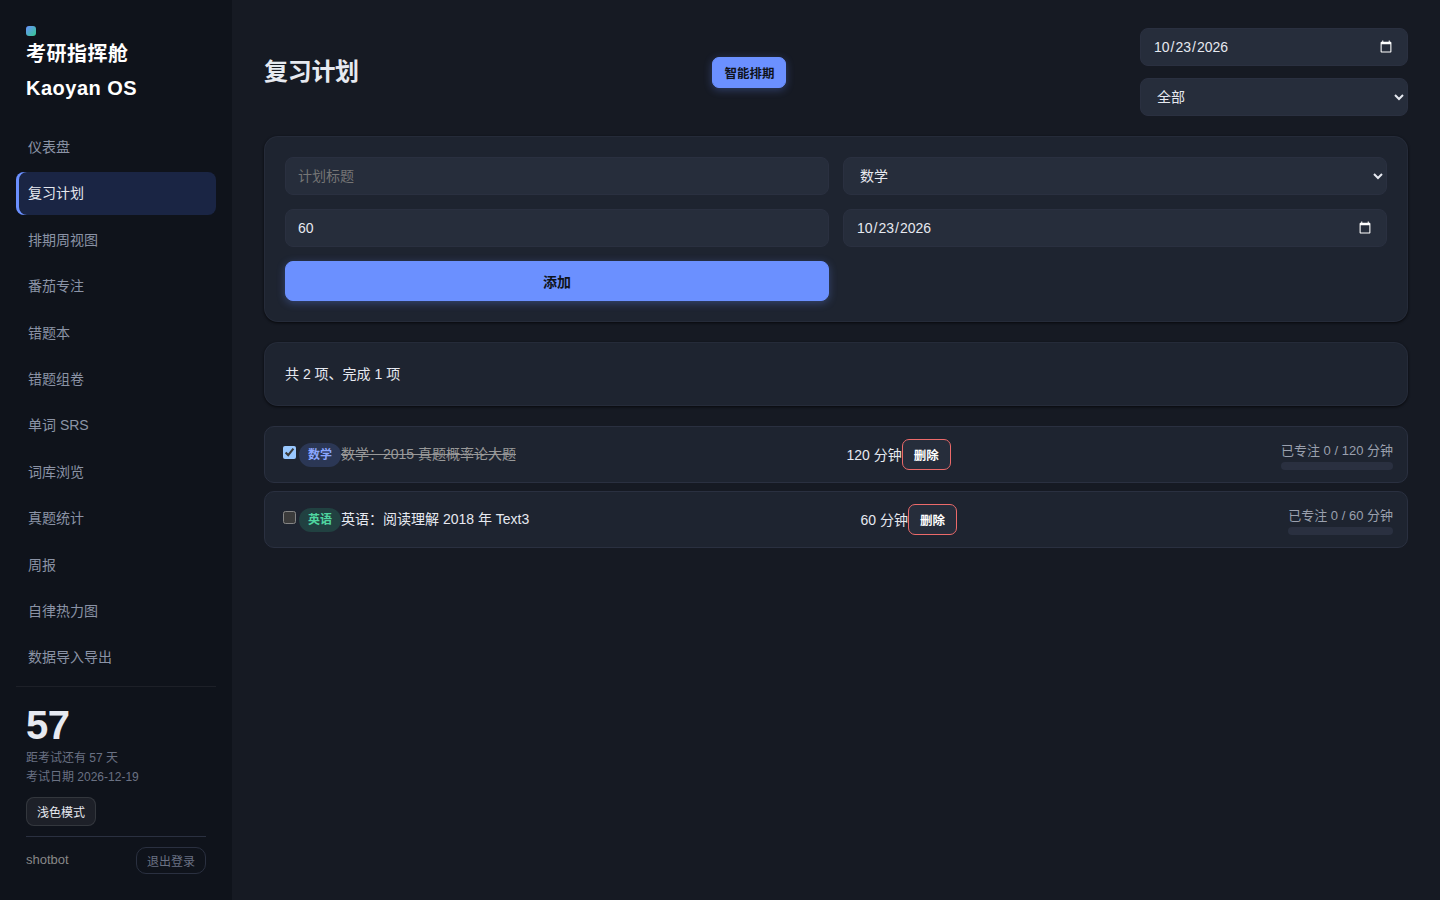
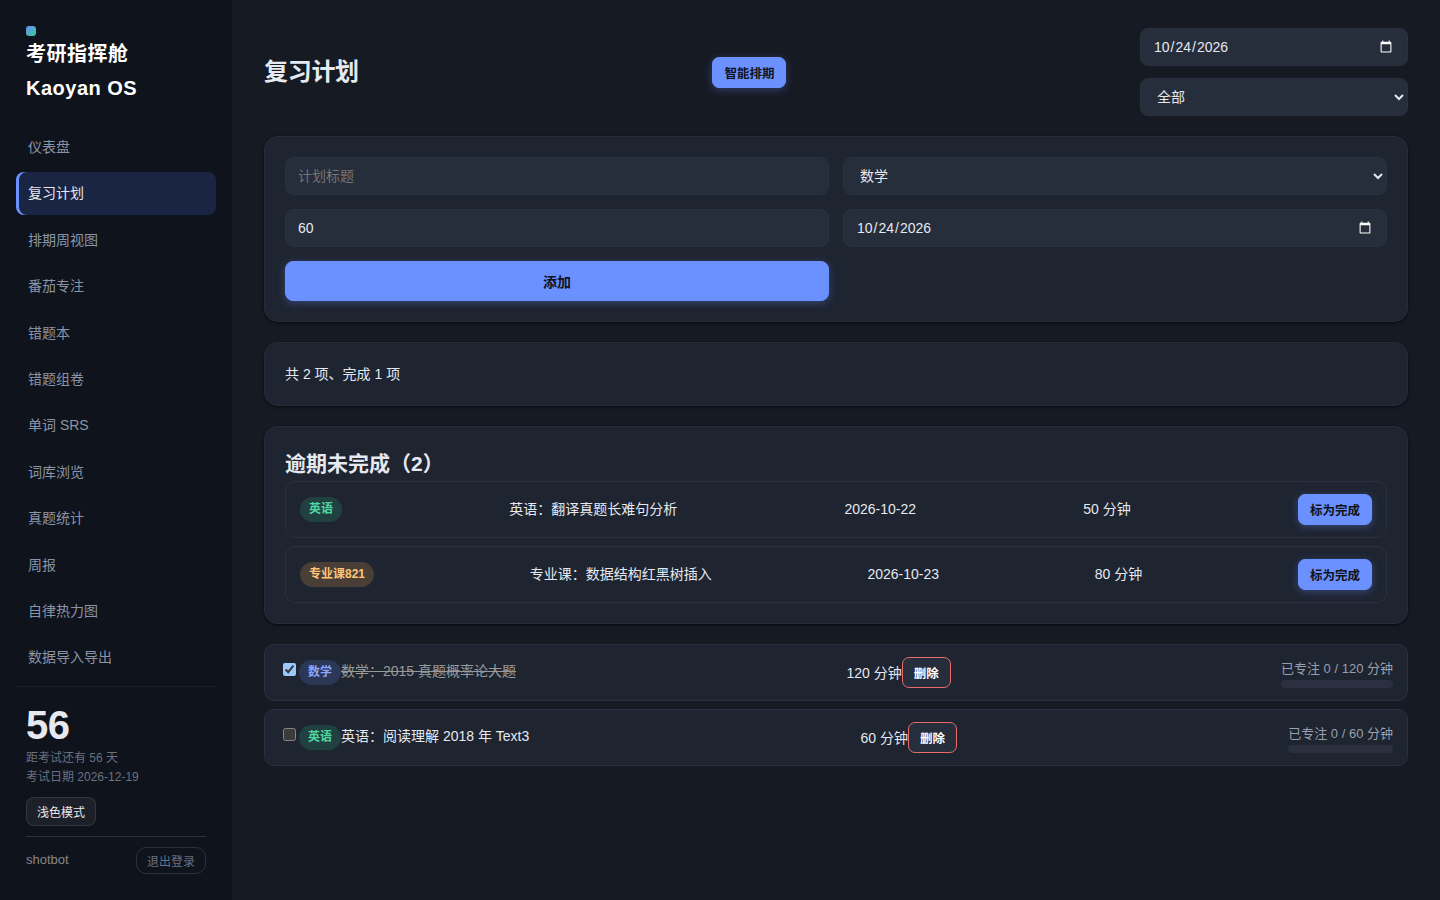
深耕轮2026-10-25 02:07（轮换到kaoyan-os）：v1.12.3「逾期计划」——GET /api/plans/overdue + 计划页逾期区一键标为完成

diff --git a/kaoyan-os/apps/server/tests/plans-overdue.test.ts b/kaoyan-os/apps/server/tests/plans-overdue.test.ts
@@ -1,0 +1,151 @@
+import { describe, it, expect, beforeEach, afterEach } from 'vitest';
+import Fastify, { type FastifyInstance } from 'fastify';
+import { createDb } from '../src/db';
+import { registerPlansRoutes } from '../src/routes/plans';
+import { applyAuthHook, registerAuthRoutes } from '../src/auth';
+import { registerAndLogin } from './test-utils';
+
+let db: any;
+let app: FastifyInstance;
+let authCookie: string;
+let authCookie2: string;
+
+function localYMD(d: Date): string {
+  const y = d.getFullYear();
+  const m = String(d.getMonth() + 1).padStart(2, '0');
+  const day = String(d.getDate()).padStart(2, '0');
+  return `${y}-${m}-${day}`;
+}
+
+async function createPlan(cookie: string, payload: { date: string; subject: string; title: string; plannedMinutes: number }) {
+  const res = await app.inject({ method: 'POST', url: '/api/plans', headers: { cookie }, payload });
+  expect(res.statusCode).toBe(201);
+  return res.json();
+}
+
+beforeEach(async () => {
+  db = createDb(':memory:');
+  app = Fastify();
+  applyAuthHook(app, db);
+  registerAuthRoutes(app, db);
+  registerPlansRoutes(app, db);
+  await app.ready();
+  authCookie = await registerAndLogin(app, 'overdueuser');
+  authCookie2 = await registerAndLogin(app, 'overdueuser2');
+});
+
+afterEach(async () => {
+  await app.close();
+});
+
+describe('plans-overdue', () => {
+  it('逾期未完成计划被返回', async () => {
+    const today = new Date();
+    const yesterday = new Date(today);
+    yesterday.setDate(today.getDate() - 1);
+    const ydStr = localYMD(yesterday);
+
+    await createPlan(authCookie, { date: ydStr, subject: 'math', title: 'OverdueTask', plannedMinutes: 30 });
+
+    const res = await app.inject({ method: 'GET', url: '/api/plans/overdue', headers: { cookie: authCookie } });
+    expect(res.statusCode).toBe(200);
+    const body = res.json();
+    expect(body.count).toBe(1);
+    expect(body.plans[0].title).toBe('OverdueTask');
+    expect(body.plans[0].done).toBe(false);
+  });
+
+  it('已完成的逾期计划不返回', async () => {
+    const today = new Date();
+    const yesterday = new Date(today);
+    yesterday.setDate(today.getDate() - 1);
+    const ydStr = localYMD(yesterday);
+
+    const plan = await createPlan(authCookie, { date: ydStr, subject: 'math', title: 'DoneTask', plannedMinutes: 30 });
+    await app.inject({ method: 'PATCH', url: `/api/plans/${plan.id}`, headers: { cookie: authCookie }, payload: { done: true } });
+
+    const res = await app.inject({ method: 'GET', url: '/api/plans/overdue', headers: { cookie: authCookie } });
+    expect(res.statusCode).toBe(200);
+    const body = res.json();
+    expect(body.count).toBe(0);
+  });
+
+  it('今天与未来的计划不返回', async () => {
+    const today = new Date();
+    const tomorrow = new Date(today);
+    tomorrow.setDate(today.getDate() + 1);
+    const todayStr = localYMD(today);
+    const tmrStr = localYMD(tomorrow);
+
+    await createPlan(authCookie, { date: todayStr, subject: 'math', title: 'TodayTask', plannedMinutes: 30 });
+    await createPlan(authCookie, { date: tmrStr, subject: 'math', title: 'FutureTask', plannedMinutes: 30 });
+
+    const res = await app.inject({ method: 'GET', url: '/api/plans/overdue', headers: { cookie: authCookie } });
+    expect(res.statusCode).toBe(200);
+    const body = res.json();
+    expect(body.count).toBe(0);
+  });
+
+  it('排序为date升序再id升序', async () => {
+    const today = new Date();
+    const yesterday = new Date(today);
+    yesterday.setDate(today.getDate() - 1);
+    const dayBefore = new Date(today);
+    dayBefore.setDate(today.getDate() - 2);
+    const ydStr = localYMD(yesterday);
+    const dbStr = localYMD(dayBefore);
+
+    await createPlan(authCookie, { date: ydStr, subject: 'math', title: 'B', plannedMinutes: 30 });
+    await createPlan(authCookie, { date: ydStr, subject: 'math', title: 'A', plannedMinutes: 30 });
+    await createPlan(authCookie, { date: dbStr, subject: 'math', title: 'C', plannedMinutes: 30 });
+
+    const res = await app.inject({ method: 'GET', url: '/api/plans/overdue', headers: { cookie: authCookie } });
+    expect(res.statusCode).toBe(200);
+    const body = res.json();
+    expect(body.count).toBe(3);
+    const dates = body.plans.map((p: any) => p.date);
+    for (let i = 1; i < dates.length; i++) {
+      expect(dates[i] >= dates[i - 1]).toBe(true);
+    }
+    const byDate: Record<string, any[]> = {};
+    for (const p of body.plans) {
+      if (!byDate[p.date]) byDate[p.date] = [];
+      byDate[p.date].push(p);
+    }
+    for (const group of Object.values(byDate)) {
+      for (let i = 1; i < group.length; i++) {
+        expect(group[i].id > group[i - 1].id).toBe(true);
+      }
+    }
+  });
+
+  it('用户隔离', async () => {
+    const today = new Date();
+    const yesterday = new Date(today);
+    yesterday.setDate(today.getDate() - 1);
+    const ydStr = localYMD(yesterday);
+
+    await createPlan(authCookie2, { date: ydStr, subject: 'math', title: 'User2Task', plannedMinutes: 30 });
+
+    const res1 = await app.inject({ method: 'GET', url: '/api/plans/overdue', headers: { cookie: authCookie } });
+    expect(res1.statusCode).toBe(200);
+    expect(res1.json().count).toBe(0);
+
+    const res2 = await app.inject({ method: 'GET', url: '/api/plans/overdue', headers: { cookie: authCookie2 } });
+    expect(res2.statusCode).toBe(200);
+    expect(res2.json().count).toBe(1);
+  });
+
+  it('空库返回count 0与空数组', async () => {
+    const res = await app.inject({ method: 'GET', url: '/api/plans/overdue', headers: { cookie: authCookie } });
+    expect(res.statusCode).toBe(200);
+    const body = res.json();
+    expect(body.count).toBe(0);
+    expect(body.plans).toEqual([]);
+  });
+
+  it('未登录返回401', async () => {
+    const res = await app.inject({ method: 'GET', url: '/api/plans/overdue' });
+    expect(res.statusCode).toBe(401);
+  });
+});

diff --git a/kaoyan-os/apps/web/src/pages/Plans.tsx b/kaoyan-os/apps/web/src/pages/Plans.tsx
@@ -5,6 +5,7 @@ import {
   type SubjectKey,
   type Plan,
   type PlanSummary,
+  type OverduePlansResponse,
   type PlanProgress,
   type AutoScheduleInput,
   type AutoScheduleItem,
@@ -35,6 +36,7 @@ export default function Plans() {
 
   const [plans, setPlans] = useState<Plan[]>([]);
   const [summary, setSummary] = useState<PlanSummary | null>(null);
+  const [overdue, setOverdue] = useState<OverduePlansResponse | null>(null);
   const [loading, setLoading] = useState<boolean>(false);
   const [error, setError] = useState<string>('');
 
@@ -114,12 +116,14 @@ export default function Plans() {
     try {
       const params: { date: string; subject?: SubjectKey } = { date };
       if (subjectFilter) params.subject = subjectFilter;
-      const [list, sum] = await Promise.all([
+      const [list, sum, ov] = await Promise.all([
         api.listPlans(params),
         api.planSummary(date),
+        api.overduePlans(),
       ]);
       setPlans(list);
       setSummary(sum);
+      setOverdue(ov);
     } catch (e) {
       setError(e instanceof Error ? e.message : '加载失败');
     } finally {
@@ -139,6 +143,15 @@ export default function Plans() {
   const handleToggle = async (plan: Plan) => {
     try {
       await api.updatePlan(plan.id, { done: !plan.done });
+      await loadList();
+    } catch (e) {
+      setError(e instanceof Error ? e.message : '更新失败');
+    }
+  };
+
+  const handleOverdueDone = async (plan: Plan) => {
+    try {
+      await api.updatePlan(plan.id, { done: true });
       await loadList();
     } catch (e) {
       setError(e instanceof Error ? e.message : '更新失败');
@@ -253,6 +266,31 @@ export default function Plans() {
       {/* 概要 */}
       {summary && (
         <div className="stat-card plans-summary-card">{summaryText}</div>
+      )}
+
+      {overdue && overdue.count > 0 && (
+        <div className="card plans-overdue-card">
+          <h2>逾期未完成（{overdue.count}）</h2>
+          <ul className="list plans-overdue-list">
+            {overdue.plans.map((plan) => (
+              <li className="list-item plans-overdue-item" key={plan.id}>
+                <span className={`badge badge-${plan.subject}`}>
+                  {subjectMap[plan.subject]?.name ?? plan.subject}
+                </span>
+                <span>{plan.title}</span>
+                <span data-label="原定日期">{plan.date}</span>
+                <span>{`${plan.plannedMinutes} 分钟`}</span>
+                <button
+                  className="btn btn-primary btn-sm"
+                  type="button"
+                  onClick={() => void handleOverdueDone(plan)}
+                >
+                  标为完成
+                </button>
+              </li>
+            ))}
+          </ul>
+        </div>
       )}
 
       {schedOpen && (

diff --git a/kaoyan-os/apps/server/src/routes/plans.ts b/kaoyan-os/apps/server/src/routes/plans.ts
@@ -224,6 +224,17 @@ export function registerPlansRoutes(app: FastifyInstance, db: DatabaseSync): voi
     return reply.send(summary);
   });
 
+  // 逾期未完成计划：date 小于今天且未完成，按 date 升序、id 升序
+  app.get('/api/plans/overdue', async (req, reply) => {
+    const today = todayStr();
+    const rows = db
+      .prepare(
+        'SELECT id, date, subject, title, planned_minutes, done, created_at FROM plans WHERE user_id = ? AND date < ? AND done = 0 ORDER BY date ASC, id ASC',
+      )
+      .all(req.user!.id, today) as unknown as PlanRow[];
+    return reply.send({ date: today, count: rows.length, plans: rows.map(mapPlan) });
+  });
+
   // 新建计划
   app.post('/api/plans', async (req, reply) => {
     const body = (req.body ?? {}) as Partial<CreatePlanInput>;

diff --git a/kaoyan-os/apps/server/tests/api-route-parity.deep5.test.ts b/kaoyan-os/apps/server/tests/api-route-parity.deep5.test.ts
@@ -34,6 +34,7 @@ describe('api route parity deep5', () => {
     'GET /api/mistakes/summary',
     'GET /api/plans',
     'GET /api/plans/auto-schedule/preview',
+  'GET /api/plans/overdue',
     'GET /api/plans/overload',
     'GET /api/plans/range',
     'GET /api/plans/summary',
@@ -90,8 +91,8 @@ describe('api route parity deep5', () => {
     await app.close();
   });
 
-  it('解析出 48 个前端 api 调用（数量快照）', () => {
-    expect(pairs.length).toBe(48);
+  it('解析出 49 个前端 api 调用（数量快照）', () => {
+    expect(pairs.length).toBe(49);
   });
 
   it('解析结果与 EXPECTED 快照完全一致', () => {

diff --git a/kaoyan-os/apps/web/src/api.ts b/kaoyan-os/apps/web/src/api.ts
@@ -6,6 +6,7 @@ import type {
   CreateFocusInput,
   FocusStats,
   PlanSummary,
+  OverduePlansResponse,
   AutoScheduleInput,
   AutoScheduleItem,
   AutoScheduleResult,
@@ -156,6 +157,8 @@ export const api = {
     request<Plan[]>(`/plans${qs(params)}`),
   planSummary: (date?: string) =>
     request<PlanSummary>(`/plans/summary${qs({ date })}`),
+  overduePlans: () =>
+    request<OverduePlansResponse>('/plans/overdue'),
   createPlan: (input: CreatePlanInput) =>
     request<Plan>('/plans', { method: 'POST', body: JSON.stringify(input) }),
   updatePlan: (id: number, patch: UpdatePlanInput) =>

diff --git a/kaoyan-os/packages/shared/src/index.ts b/kaoyan-os/packages/shared/src/index.ts
@@ -134,6 +134,12 @@ export interface PlanSummary {
   plans: PlanProgress[];
 }
 
+export interface OverduePlansResponse {
+  date: string;
+  count: number;
+  plans: Plan[];
+}
+
 /** 排期区间查询参数 */
 export interface PlansRangeQuery { from: string; to: string; }
 /** 单日负荷 */

diff --git a/PROJECTS.md b/PROJECTS.md
@@ -77,6 +77,8 @@
 - **深耕轮 2026-10-24 19:07（轮换到 sentinel；智谱 Coding Plan lane 主力 glm-4.7，本轮 5 调用；dpsk 未探活）**：sentinel **v0.11.1「事件状态筛选（服务端）」**，补齐 v0.8.0 曾承诺但未落地的事件页状态筛选（此前事件页只能按监控筛选、API 无 status 参数）。①store 新文件 `internal/store/incident_status.go`：`CountIncidentsByStatus` 与 `ListIncidentsPagedByStatus`（共用 `buildIncidentWhere`：status 只映射为 ended_at IS NULL / IS NOT NULL 两条固定 SQL 片段、不拼串；旧 `CountIncidents`/`ListIncidentsPaged` 保持不动）；②handler：`handleListIncidents` 解析 status 参数（空=open/closed 之外非法值返回 400），total 与分页均走过滤后的新函数，保证过滤后 total 与分页一致；③前端事件页新增状态下拉框（全部状态/进行中/已恢复），切换后回到第 1 页重载。验收：新增 `incidents_status_test.go` 5/5 全绿（open 2 条且 ended_at 全空/closed 3 条且 ended_at 非空/不传 5 条/非法 400/closed 分页 total 一致无交集）；`go test ./...` 16 包全绿；真实服务冒烟（18233 端口：1 条已恢复 downtime 16 秒 + 1 条进行中，status=open total 1、closed total 1、不传 total 2、非法 400、open+monitor 组合过滤正确）；两张真实截图亲眼验收通过（全部 2 条/仅进行中 1 条，console 零错误，图存 docs/screenshots/incidents-status-all.png 与 incidents-status-open.png）。批次质量：智谱 5 调用（B1/B2/B4/B5 一次成功，B3 约 208 秒出结果）；编排机械修正：B1 模型重定义 Store/Incident 类型已剥离（去重后 go vet 洁）；B3 模型编造签名已按实测修正（CreateMonitor 值参双返回、OpenIncident 时间须字符串、CloseOpenIncident 双返回、doJSON 须传 Routes 与空 body、正则替换带入的转义残留已清、测试名 OpenPaged 改为 ClosedPaged 以符实）；B4 全文件输出 diff 仅 4 处预期改动加空行整理；冒烟首轮 PUT 漏 name 字段被拒（名称不能为空），补全后重发通过。commit c0bf37e3 已 push（origin/main 已核实）。未列入修复：截图顶栏左缘在 setContent 抓屏下有裁切感，本轮未动顶栏与 CSS，属抓屏渲染差异，留待后续真页实测确认。
 - **深耕轮 2026-10-24 18:07（轮换到 docseek；智谱 Coding Plan lane 主力 glm-4.7，6 调用全一次成功，微批 <150s；dpsk 未探活）**：docseek **v0.32.0「后果索取型问句的答案加成」**，与 v0.29 asksRange 同构的新机制。①`ParsedQuery::asksConsequence`（query_parser 的 detectConsequenceIntent 在 raw 上字面判定"后果/会怎么样/会导致/会带来/有什么影响/有什么危害/会造成/会怎样"）；②passage_ranker 新增 `kConsequenceAnswerBonus = 0.08`（后果索取型问句 + 窗口含"会让/导致/造成/引起/致使/使得/结果是"任一标记时加 0.08 一次，不叠加）。机理：此前"撒放时手指主动张开会带来什么后果？"的 top1 是仅复述问句的干扰窗口（0.771），含后果答案"主动张手会让箭尾左右摆动"的期望窗口（0.765）仅差 0.006 屈居其后；本机制只给含"会让"标记的期望窗口加分。验收：新测试 `tests/test_v032_consequence.cpp` 8/8 全绿；靶向 A/B（新旧二进制对照同一评测库）v09-t063-q12 由 FAIL 翻 PASS（期望窗口 0.765→0.845，干扰窗口 0.771 不变）；后果意图触发的 9 个评测对新旧对照 8/9→9/9，零新回归（其余 1431 对分数按构造不变：唯一可变路径由 asksConsequence 门控）；t167-q09 守门仍 PASS；其余 3 个剩余回归对（t130-q05/t065-q09/t073-q10）保持 FAIL，属其他机制缺口。编排机械修正 2 处：B3 测试的 TEST 宏套件名/用例名顺序写反（已按 v031 惯例调正）；B4 CHANGELOG 中编排 prompt 误写的"t063-q09"对号（已纠正为 t063-q12）；B5/B5b 两处"待验证"尾注按实测回填。全量 ctest：38 个失败与干净树失败集逐字一致（ServeFixture/Tokenizer 环境系既存），零新增。
 - **深耕轮 2026-10-24 17:07（轮换到 drama-factory；智谱 Coding Plan lane 主力 glm-4.7，17:00 高峰时段未用 glm-5.3；dpsk 未探活）**：**SkillHub 索引默认分页，关闭 TD-003**。①GET /api/skillhub/index 始终分页，无参默认第 0 页、每页 50 条（此前无参一次返回全部 1302 条）；total 仍为过滤后全量，totalPages=ceil(total/size)，size 钳制 1-200 不变；updatedAt 本就取 SkillRegistry 构造时记录的 bundledLoadedAt（索引构建时刻），本轮核实后连同默认分页一起关闭 TD-003。②测试适配：PaginationTest 无参断言改为默认首页（page 0/size 50/50 条/totalPages=ceil）+ 新增首页与第 2 页无交集测试；IndexControllerTest 的 v/t/w 开头 skill 断言改走 q 过滤；InstallFlowTest 的 getHubIndex 改走 q=SKILL_ID；前端 skillhub 页恒发 page/size，不受影响。③视觉验收连带修 2 个前端真问题：卡片描述字段 desc→description（此前恒为空）；补 9 个缺失 i18n 键并按同站做法注册词典（此前标题/副标题等显示裸键）。验收：4 个 SkillHub 测试类 32/32 全绿（Pagination 11/IndexController 5/InstallFlow 4/QueryFilter 12）；生产 jar 真实服务冒烟（health ok；无参 page 0/size 50/total 1302/totalPages 27/50 条；page=1 首条 ai-film-skills-video-prompt-director；q=video-scrub 恰 1 条；越界页空列表）；截图 docs/screenshots/skillhub-default-page.png 亲眼验收通过（48 卡+描述+第 1/28 页/共 1302 个，零裸键）。诚实声明：①B4 字段修复为编排在 prompt 中直接指定字段映射（模型复述确认），非模型自主设计；②截图时 1 条 console 502 经定位为冒烟环境未起 auth 上游所致（/api/auth/me 回 AUTH_UPSTREAM_UNAVAILABLE），与本轮无关；③B3 的 CHANGELOG Added 小节重复与 TECH_DEBT 空行问题由编排手工修正；④全量 mvn test 未跑（既存失败与本轮无关，见 05:07 轮记录），本轮只跑 4 个相关类。
+- **深耕轮 2026-10-25 02:07（轮换到 kaoyan-os；智谱 Coding Plan lane 主力 glm-4.7，4 调用全一次成功；dpsk 未探活）**：kaoyan-os **v1.12.3「逾期计划」**。此前计划页只能看选定日期的计划，过期未完成的计划无处可见。①后端 GET /api/plans/overdue（plans.ts，todayStr 当天为界：user_id = 当前用户 AND date < 今天 AND done = 0，ORDER BY date ASC, id ASC，返回 { date, count, plans }，count 即 plans 长度）；共享类型 packages/shared 新增 OverduePlansResponse。②前端 api.ts 新增 overduePlans()，复习计划页顶部新增「逾期未完成（N）」区（count > 0 才显示，科目 badge + 原定日期 + 分钟数 + 「标为完成」按钮，复用 PATCH /api/plans/:id，点后刷新列表）。③文档：docs/API.md 新增 `GET /api/plans/overdue` 节（文档同步测试要求逐字标题）、CHANGELOG v1.12.3。验收：服务端 vitest 全量 847 例中 845 通过，唯一 2 败为 api-route-parity.deep5 前端调用快照（48→49，属本轮新增 overduePlans 调用的预期变化，EXPECTED 已同步为 49 并单文件重跑 15/15 全绿：parity 5 + overdue 7 + docs-sync 3）；server/web tsc 零错（shared dist 需先构建，否则 web 端报 OverduePlansResponse 未导出）、vite build 成功；真实服务冒烟（18231 隔离库：建 2026-10-20 逾期与 2026-10-25 今日两条，overdue 只返逾期 1 条、未登录 401、PATCH 标为完成后重查 count 归 0）；浅/深两张计划页真实截图亲眼验收（逾期区 2 条按日期升序、按钮齐全、零 console 错误，图存 docs/screenshots/plans-light.png 与 plans-dark.png，其余 7 张截图已恢复旧版以控制改动面）。批次质量：智谱 4 调用（B1/B2/B3/B4 全一次成功，微批 <150s）；编排机械修正 4 处：B1 模型编造的 db.all 异步接口改走既有 DatabaseSync prepare().all() 同步写法；B4 文档示例 subject 中文名改回 subject key（math）；api-route-parity 快照 48→49 同步；截图其余 7 张恢复旧版。commit 待 push 核实。
+
 - **深耕轮 2026-10-24 16:07（轮换到 kaoyan-os；智谱 Coding Plan lane 主力 glm-4.7，14:00-18:00 高峰未用 glm-5.3；dpsk 未探活）**：kaoyan-os **v1.12.2「单词 JSON 批量导入 + TECH_DEBT 第 3 轮 P1-2 闭环」**。①孤儿路由落地：前端 api.ts 新增 WordImportItem/WordImportResult 与 importWordsJson，接线后端已有的 POST /api/words/import（后端未改动）；核心词库页 /vocab 新增 JSON 批量导入卡片（粘贴数组或 { words: [...] }，客户端 JSON 解析失败先行报错不发请求，成功后显示导入/已有跳过/无效数与逐条错误并刷新列表与状态）。②P1-2 闭环：shot-harness.mjs 两路注册点加注释（Playwright 后注册优先、静态 /** 先注册、/api 后注册）、SCREENSHOT_HARNESS.md 该节措辞纠正为 Playwright 顺序并注明颠倒症状（页面能打开、数据接口全坏）、self-check.mjs 新增第 6 项源码顺序断言、新增 scripts/shots/route-order-probe.mjs 浏览器实测探针。验收：web/server tsc 零错、vite build 成功；服务端 vitest 全量 838/840，唯一 2 败为 api-route-parity.deep5 前端调用快照（47→48，属本轮接线孤儿路由的预期变化，已同步快照为 48 并单文件重跑 5/5，全量未重跑 12 分钟故按 838+2 计）；self-check 6/6（含新增第 6 项）、route-order-probe PASS、Vocab 两张真实截图亲眼验收（空态卡片完整、导入成功态：导入 2 个/状态 2 词/表格 abandon 与 ability 释义正确，零 console 错误，图存 docs/screenshots/vocab-json-import.png）。批次质量：智谱 6 调用全一次成功（微批 <150s）；编排机械修正 3 处：Vocab.tsx 模型原样输出的 JSX 大括号致 tsc 报错（改字符串表达式）、B3 引用了尚不存在的 route-order-probe.mjs（补 B4 落实）、CHANGELOG 锚定串多句点致断言失败（纠正重跑）。commit df60efe8 已 push（origin/main 已核实）。
 
 - **深耕轮 2026-10-24 04:07（轮换到 kaoyan-os；智谱主力+s193 补位；OpenRouter 免费 lane 50/日已用尽）**：kaoyan-os TECH_DEBT 第 2 轮「P1-1 截图 harness 固化」完成——新增 `scripts/shots/`：`shot-harness.mjs`（通用库：spawnServer 起真实后端→waitForHealth 轮询 /api/health（超时直接失败，杜绝空白页）→registerAndLogin→seedDemoData 经真实 API 播种中文演示数据→createShotContext（route 拦截：静态读 apps/web/dist、/api/** 经 Node 直连代理绕过 Chromium 152 LNA；静态先注册、/api 后注册，后注册优先）→runShotPlan（逐项 waitFor 关键 selector+交互动作+截图，收集 pageerror/console error，有错整轮失败）→shutdown 清理）、`shot-plan.mjs`（9 页默认计划，全部 selector 经源码 grep 核对）、`run-shots.mjs`（一键入口）、`self-check.mjs`（5 项自检断言）；`docs/SCREENSHOT_HARNESS.md` 文档；package.json 新增 `shot`/`shot:build`；.gitignore 加演示 DB。验收：self-check 5/5 PASS；一键跑出 9 张真实截图（dashboard/plans 浅深/mistakes/words/exams/heatmap 含当日详情点击/weekly/data-transfer），编排亲眼验收全过、零 console 错误。lane 实况：智谱对 >272s 长调用有传输硬墙（urllib/curl 均被截，5 连败），改 3 微批（<150s）后全过；s193 首轮只交思考过程、次轮截断，改"最高指令禁思考过程"后可用；OpenRouter 今日 429 用尽。修模型编造的 6 个 selector（.plan-list→.plans-list-item 等）与代理漏转 cookie 的真 bug 各 1。

diff --git a/kaoyan-os/docs/API.md b/kaoyan-os/docs/API.md
@@ -219,6 +219,30 @@
 
 ---
 
+### `GET /api/plans/overdue`
+
+| GET | /api/plans/overdue | 需登录 |
+
+没参数。返回当天日期 date、逾期未完成总数 count、逾期计划数组 plans。逾期就是计划的 date 小于服务端今天且 done 为 false。plans 按 date 升序排，同一天内按 id 升序排。只返回当前登录用户自己的计划，别人的不碰。没登录返回 401。
+
+```json
+{
+  "date": "2026-10-25",
+  "count": 1,
+  "plans": [
+    {
+      "id": 42,
+      "date": "2026-10-20",
+      "subject": "math",
+      "title": "刷线代第三章习题",
+      "plannedMinutes": 90,
+      "done": false,
+      "createdAt": "2026-10-19T08:30:00Z"
+    }
+  ]
+}
+```
+
 ### `POST /api/plans`
 
 | 方法 | 路径 | 认证 |

diff --git a/kaoyan-os/CHANGELOG.md b/kaoyan-os/CHANGELOG.md
@@ -4,6 +4,14 @@
 
 格式遵循 [Keep a Changelog](https://keepachangelog.com/zh-CN/1.1.0/)。
 
+## [1.12.3] - 2026-10-25
+
+### Added
+
+- 后端新增 `GET /api/plans/overdue`，返回当前用户 date 小于服务端今天且 done 为 false 的计划，按 date 升序、id 升序排列。
+- 前端复习计划页顶部新增逾期区，count 大于 0 才显示，每项可一键标为完成（复用 PATCH /api/plans/:id）。
+- 测试 plans-overdue.test.ts 共 7 例：逾期纳入、已完成排除、今天与未来排除、排序、用户隔离、空库、未登录 401。
+
 ## [1.12.2] - 2026-10-24
 
 ### Added
